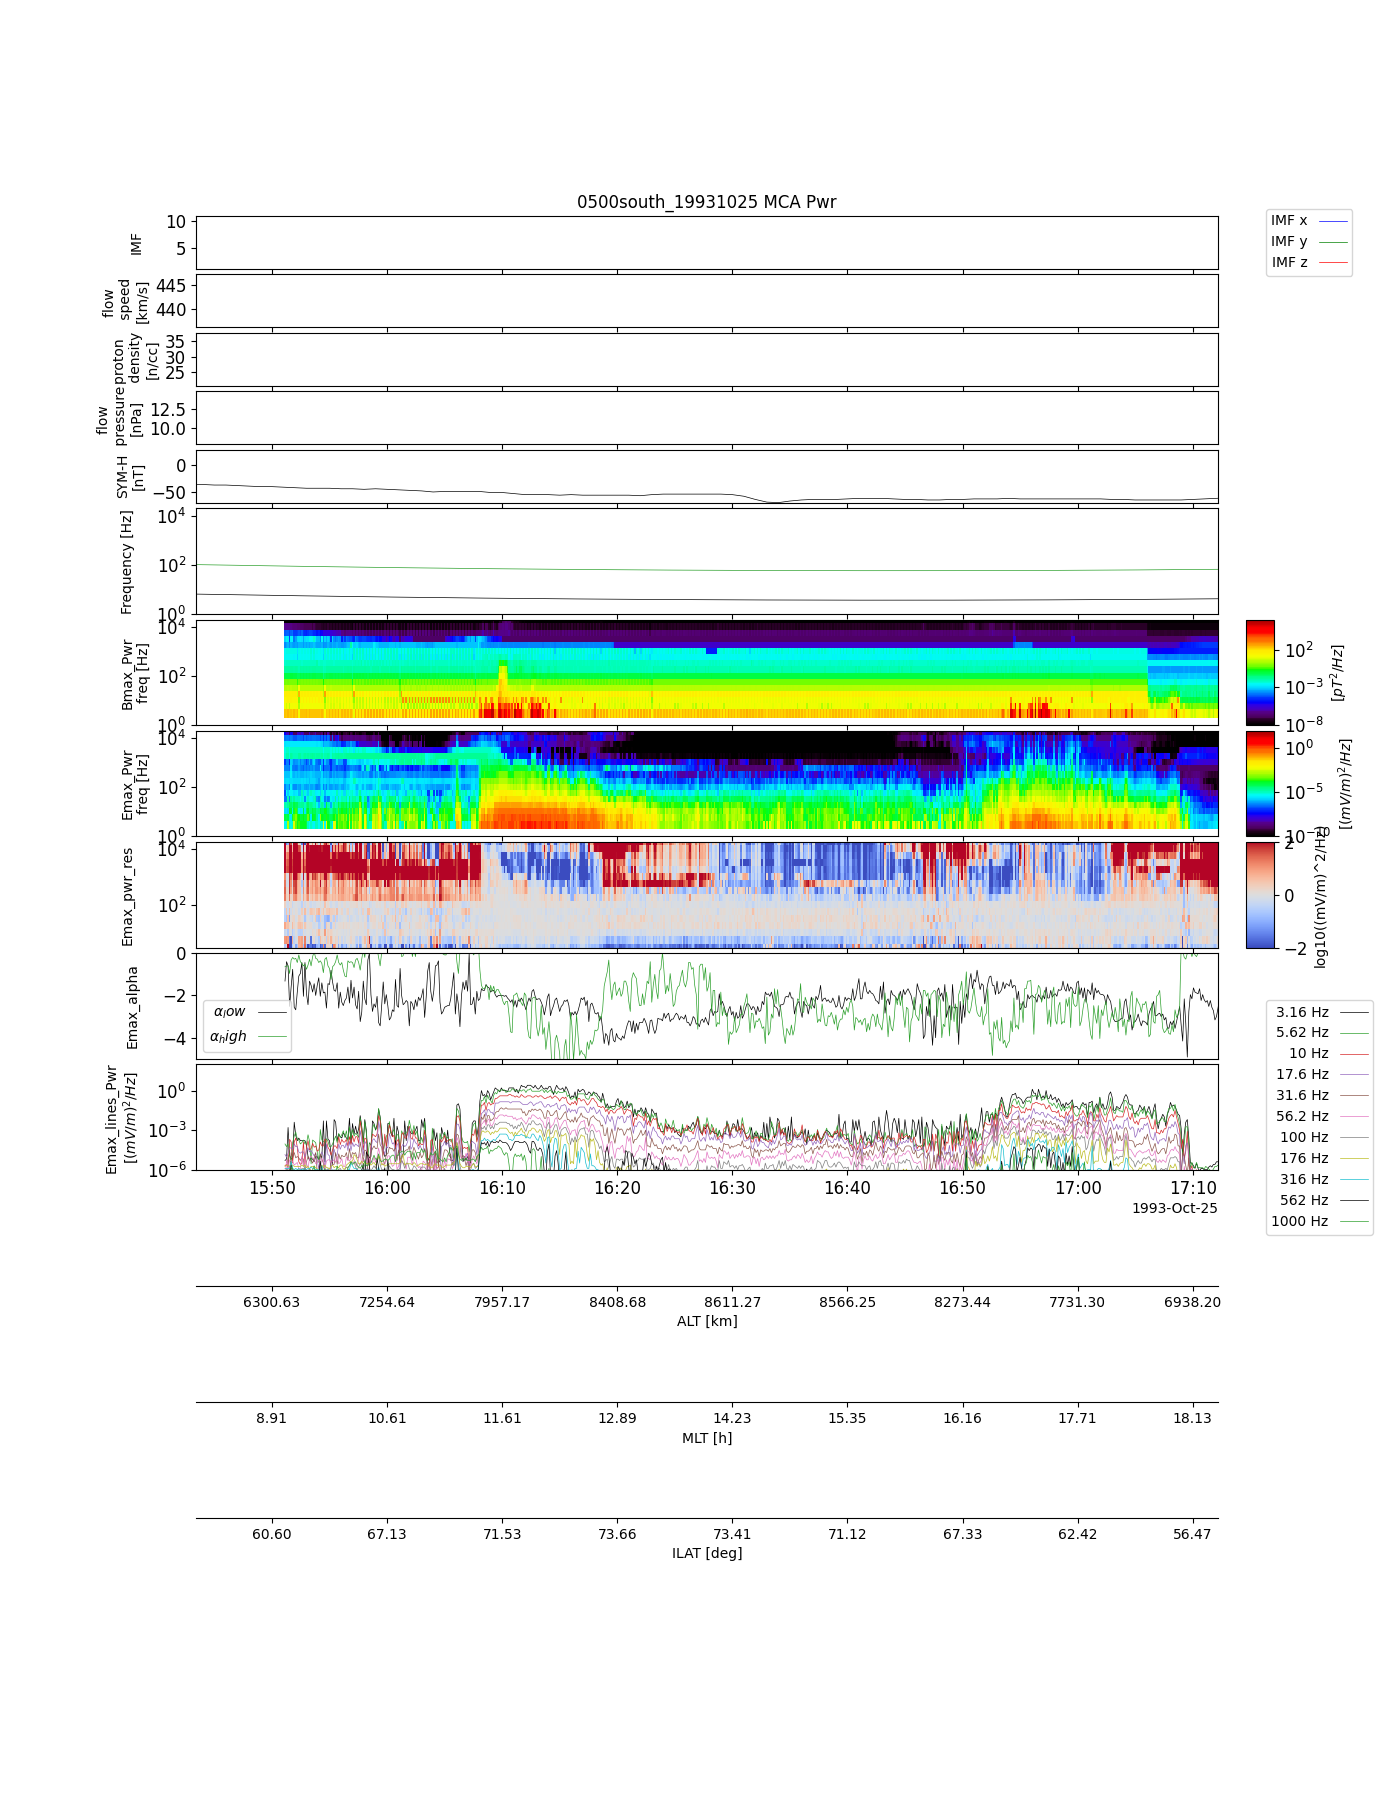
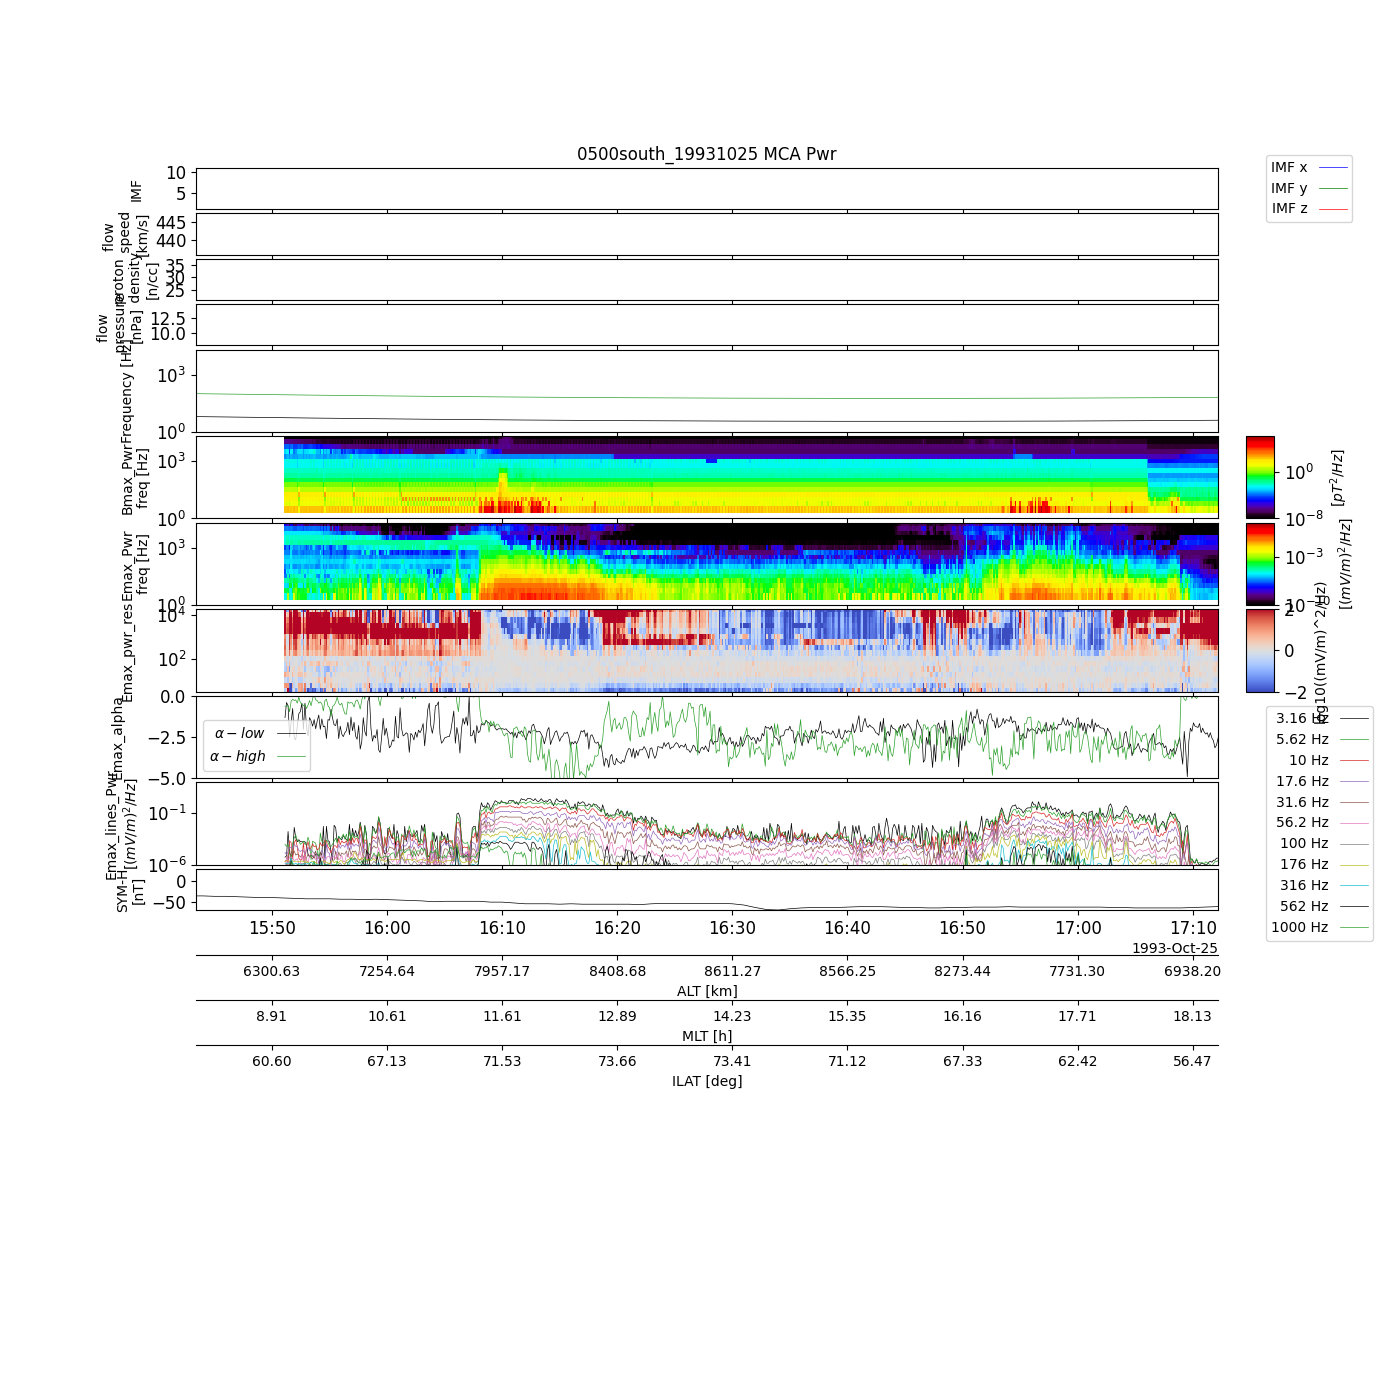
mca plot ver1.1

diff --git a/VLF_mca/akebono_mca_plot.py b/VLF_mca/akebono_mca_plot.py
@@ -221,7 +221,7 @@ for k in range(len(day_list)-1):
         alpha_list_high_freq.append(a)
 
     store_data('Emax_alpha', data={'x':times, 'y':np.array([alpha_list_low_freq, alpha_list_high_freq]).T})
-    options('Emax_alpha', 'legend_names', [r'$\alpha_low$',r'$\alpha_high$'])
+    options('Emax_alpha', 'legend_names', [r'$\alpha -low$',r'$\alpha -high$'])
     options('Emax_alpha', 'yrange', [-5, 0])
     
     store_data('Emax_pwr_res', data={'x':times, 'y':Emax_res_list, 'v':freq})
@@ -289,7 +289,10 @@ for k in range(len(day_list)-1):
             Emax_10Hz = Emax_pwr.y.T[freq_channel_index][index_tuple[0]]
             
             save_name = ''
+            
             if Emax_10Hz.size == 0:
+                continue
+            if np.isnan(np.nanmax(Emax_10Hz)):
                 continue
             if np.nanmax(Emax_10Hz) >=0.5:
                 save_name = dir + 'super_strong_event/' + 'akb-mca-'+ hemisphere +'_'+ year + Month + day + '_' + hour + minute + second
@@ -307,8 +310,8 @@ for k in range(len(day_list)-1):
             options('Emax_lines_' + surfix, 'ylog', 1)
             options('Emax_lines_' + surfix, 'legend_location', 'spedas')
             options('Emax_lines_' + surfix, 'legend_names', ["3.16 Hz", "5.62 Hz", "10 Hz", "17.6 Hz",
-                                                            "31.6 Hz", "56.2 Hz", "100 Hz", "176 Hz",
-                                                            "316 Hz", "562 Hz", "1000 Hz"])
+                                                             "31.6 Hz", "56.2 Hz", "100 Hz", "176 Hz",
+                                                             "316 Hz", "562 Hz", "1000 Hz"])
             #options(['Emax_' + surfix, 'Bmax_' + surfix], 'Colormap', 'viridis')
             if surfix == 'Amp':
                 options('Emax_' + surfix, 'zrange', [1e-5, 10])
@@ -330,6 +333,7 @@ for k in range(len(day_list)-1):
             options('ALT', 'ytitle', 'ALT [km]')
             options('MLT', 'ytitle', 'MLT [h]')
             options('ILAT', 'ytitle', 'ILAT [deg]')
+            options(['ALT', 'MLT', 'ILAT'], 'panel_size', 0.3)
             
             omni_data_names = ['SYM_H', 'IMF', 'flow_speed', 'proton_density', 'Pressure', 'E']
             options(omni_data_names, 'panel_size', 0.5)
@@ -345,15 +349,12 @@ for k in range(len(day_list)-1):
             options('E', 'ysubtitle', 'mV/m')
             
             tplot_options('title', Passname + hemisphere + '_' + year+Month+day+ ' MCA ' + surfix)
-            tplot_options('var_label', ["3.16 Hz", "5.62 Hz", "10 Hz", "17.6Hz",
-                                        "31.6 Hz", "56.2 Hz", "100 Hz", "176 Hz",
-                                        "316 Hz", "562 Hz", '1000 Hz'])
-            
+            tplot_options('wsize', [1000,500])
 
-            tplot(['IMF', 'flow_speed', 'proton_density', 'Pressure', 'SYM_H', 'gyro_freq', 'Bmax_' + surfix, 'Emax_' + surfix, 'Emax_pwr_res', 'Emax_alpha', 'Emax_lines_' + surfix], 
+            tplot(['IMF', 'flow_speed', 'proton_density', 'Pressure', 'gyro_freq', 'Bmax_' + surfix, 'Emax_' + surfix, 'Emax_pwr_res', 'Emax_alpha', 'Emax_lines_' + surfix, 'SYM_H'], 
                   var_label = ['ALT', 'MLT', 'ILAT'], 
-                  save_png = save_name + 'test',
-                  xsize=14, ysize=18,
+                  save_png = save_name + 'test_14-16',
+                  xsize=14, ysize=16,
                   display=False)
             
                 
